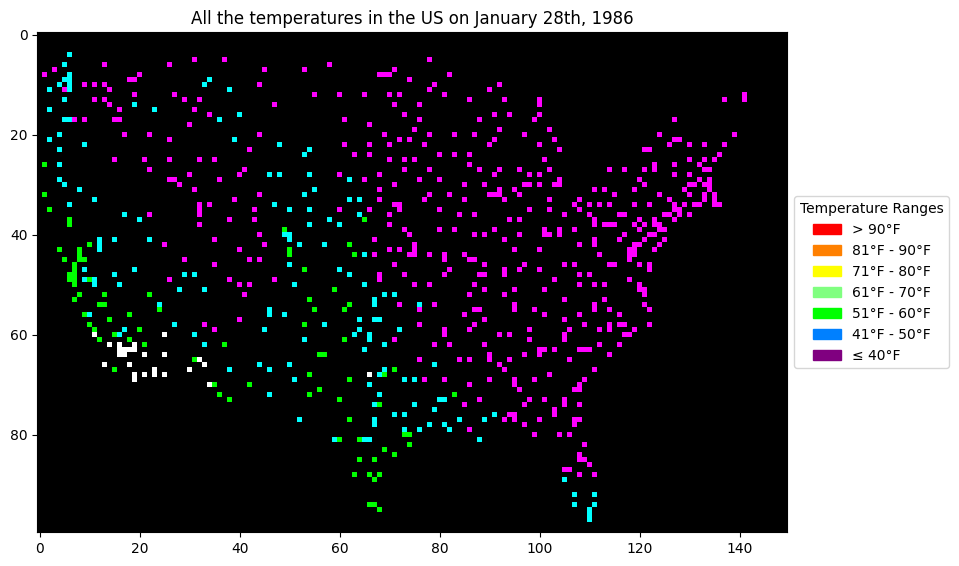
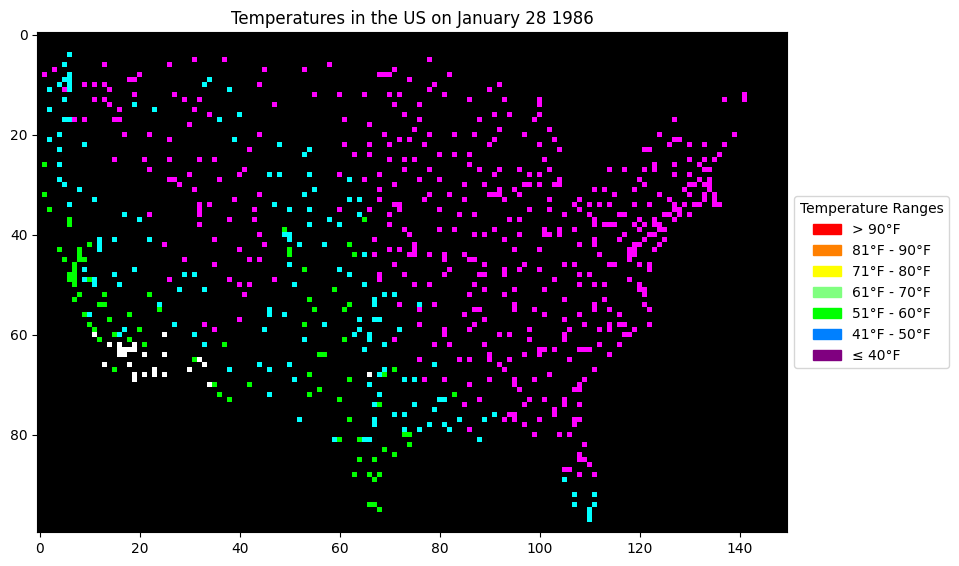
homework 4 done

Changed region(s): [[0.2117, 0.0, 0.6653, 0.0601]]

diff --git a/Homework/Homework4/main.py b/Homework/Homework4/main.py
@@ -5,10 +5,12 @@ from math import radians, sin, cos, sqrt, atan2
 import matplotlib.patches as mpatches
 
 EARTH_RADIUS = 6371
+stations_file = 'stations.csv'
+temp_file = 'temp.csv'
 
 def haversine_distance(lat1, lon1, lat2, lon2):
     """
-    Compute the haversine distance between two geographic points.
+    Do the math for haversine distance between two geographic points.
 
     Parameters:
       lat1 (float): Latitude of the first point in degrees.
@@ -66,9 +68,7 @@ def clean_stations_data(stations_df):
       DataFrame: Cleaned station data.
     """
     cleaned_df = stations_df.dropna()
-    cleaned_df = cleaned_df[
-        (cleaned_df['lat'] != 0) & (cleaned_df['lon'] != 0)
-        ]
+    cleaned_df = cleaned_df[(cleaned_df['lat'] != 0) & (cleaned_df['lon'] != 0)]
     return cleaned_df
 
 def filter_stations_near(stations_df, center_lat, center_lon, max_distance=100):
@@ -86,9 +86,7 @@ def filter_stations_near(stations_df, center_lat, center_lon, max_distance=100):
     """
     distances = []
     for _, row in stations_df.iterrows():
-        distance = haversine_distance(
-            center_lat, center_lon, row['lat'], row['lon']
-        )
+        distance = haversine_distance(center_lat, center_lon, row['lat'], row['lon'])
         distances.append(distance)
     stations_df = stations_df.copy()
     stations_df['d'] = distances
@@ -134,7 +132,13 @@ def plot_mean_temperature(temp_df, stations_near_df, month):
       stations_near_df (DataFrame): Data for stations near the center.
       month (int): Month for which to plot the data.
     """
-    temp_near_df = pd.merge(temp_df, stations_near_df[['id']], on='id')
+    print(temp_df.head())
+    print("-------")
+    print(stations_near_df.head())
+    print("-----")
+    temp_near_df = pd.merge(temp_df, stations_near_df[['id']])
+    print("temp df")
+    print(temp_near_df.head())
     temp_near_month_df = temp_near_df[temp_near_df['mon'] == month]
     mean_daily_temp = temp_near_month_df.groupby('day')['temp'].mean()
 
@@ -143,7 +147,6 @@ def plot_mean_temperature(temp_df, stations_near_df, month):
     plt.title('Mean Temperature')
     plt.xlabel('Day')
     plt.ylabel('Temperature')
-    plt.grid(False)
     plt.savefig('plot1.png')
     plt.show()
 
@@ -186,27 +189,22 @@ def plot_us_temperature_map(temp_df, stations_df, month, day):
     min_lon, max_lon = -125.0, -65.0
     rows, cols = 100, 150
     us_map = np.zeros((rows, cols, 3))
-
     temp_day_df = temp_df[(temp_df['mon'] == month) & (temp_df['day'] == day)]
-    temp_day_df = pd.merge(temp_day_df, stations_df[['id', 'lat', 'lon']], on='id')
-
+    temp_day_df = pd.merge(temp_day_df, stations_df[['id', 'lat', 'lon']])
     for _, row in temp_day_df.iterrows():
         lat = row['lat']
         lon = row['lon']
         temperature = row['temp']
-
         if lat < min_lat or lat > max_lat or lon < min_lon or lon > max_lon:
             continue
         row_idx = int((max_lat - lat) / (max_lat - min_lat) * (rows - 1))
         col_idx = int((lon - min_lon) / (max_lon - min_lon) * (cols - 1))
         if 0 <= row_idx < rows and 0 <= col_idx < cols:
             us_map[row_idx, col_idx] = temp_to_color(temperature)
-
     plt.figure(figsize=(12, 8))
     plt.imshow(us_map)
-    plt.title('All the temperatures in the US on January 28th, 1986')
+    plt.title('Temperatures in the US on January 28 1986')
     plt.subplots_adjust(right=0.75)
-
     legend_patches = [
         mpatches.Patch(color=(1, 0, 0), label='> 90°F'),
         mpatches.Patch(color=(1, 128/255, 0), label='81°F - 90°F'),
@@ -214,10 +212,7 @@ def plot_us_temperature_map(temp_df, stations_df, month, day):
         mpatches.Patch(color=(128/255, 1, 128/255), label='61°F - 70°F'),
         mpatches.Patch(color=(0, 1, 0), label='51°F - 60°F'),
         mpatches.Patch(color=(0, 128/255, 1), label='41°F - 50°F'),
-        mpatches.Patch(color=(128/255, 0, 128/255), label='≤ 40°F')
-    ]
-
-    # Place the legend outside the plot area
+        mpatches.Patch(color=(128/255, 0, 128/255), label='≤ 40°F')]
     plt.legend(handles=legend_patches, loc='center left', bbox_to_anchor=(1, 0.5), title='Temperature Ranges')
     plt.savefig('plot2.png', bbox_inches='tight')
     plt.show()
@@ -226,41 +221,23 @@ def main():
     """
     Main function to execute the analysis and visualizations.
     """
-    # File names for the CSV data
-    stations_file = 'stations.csv'
-    temp_file = 'temp.csv'
-
-    # Read data from CSV files
     stations_df, temp_df = read_data(stations_file, temp_file)
-
-    # Print shape before cleaning
     print(f"Shape before cleaning: {stations_df.shape}")
-
-    # Clean station data
     stations_clean_df = clean_stations_data(stations_df)
     print("Stations data after cleaning:")
     print(stations_clean_df)
     print(f"Shape after cleaning: {stations_clean_df.shape}")
-
-    # Find stations near Cape Canaveral
     cape_lat = 28.396837
     cape_lon = -80.605659
     stations_near_df = filter_stations_near(stations_clean_df, cape_lat, cape_lon)
     print(f"Stations within 100 km: {len(stations_near_df)}")
-
-    # Compute temperature statistics for January
     station_id = 722040
     jan = 1
     min_temp = get_min_temp_at_station(temp_df, station_id, jan)
     print(f"Min temperature at station {station_id}: {min_temp}")
-
     mean_temp_jan28 = get_mean_temp_on_day(temp_df, jan, 28)
     print(f"Mean temperature on Jan 28: {mean_temp_jan28}")
-
-    # Plot mean daily temperature for stations near Cape Canaveral in January
     plot_mean_temperature(temp_df, stations_near_df, jan)
-
-    # Plot US temperature map for January 28 with the color legend outside the graph
     plot_us_temperature_map(temp_df, stations_clean_df, jan, 28)
 
 if __name__ == '__main__':
